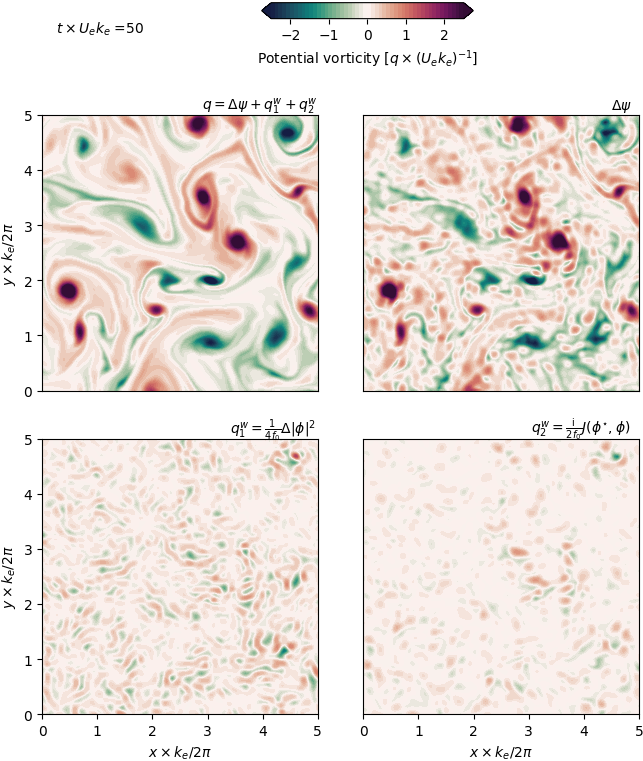
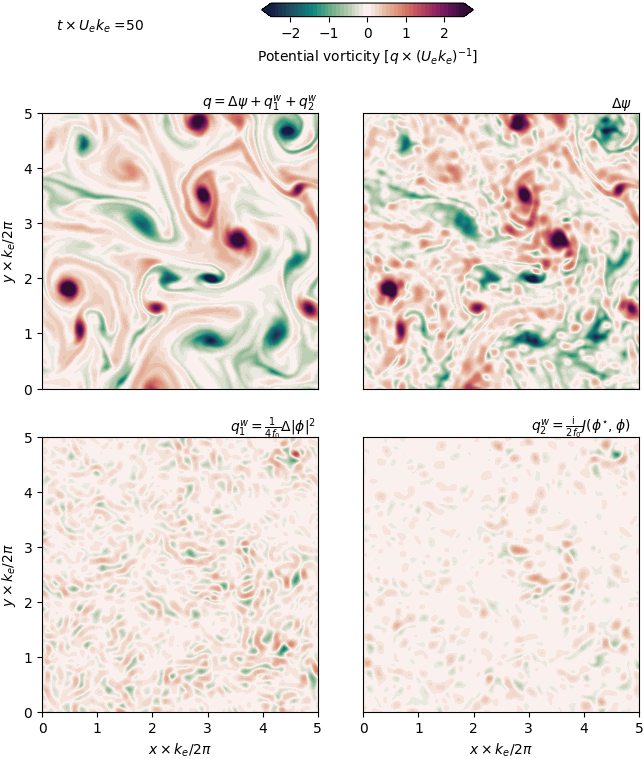
Updates poster

diff --git a/meetings/munk100/poster/poster.tex b/meetings/munk100/poster/poster.tex
@@ -182,7 +182,7 @@
         Above, $\psi$ is the streamfunction, $\lap \defn \p_x^2 + \p_y^2$,
         $\sJ(f,g)=f_x g_y - f_y g_x$, $^\star$ denotes complex conjugation,
         $\lambda = \tfrac{N_0}{f_0\, m}$, and the D-terms represent dissipation.
-        The wave kinetic energy density satisfies
+        The wave kinetic energy density, $\half |\phi|^2$, satisfies
 
         \beq
         \label{action_density}
@@ -227,7 +227,7 @@
                               (cf. poster's art). Contours represents relative vorticity, $\lap\psi$,
                               and vectors depict the wave flux, $\Ff_w$.
                               \textbf{Refraction attracts (expels)
-                              wave kinetic energy to anti-cyclones (from cyclones),
+                              wave kinetic energy density to anti-cyclones (from cyclones),
                               thereby generating wave potential energy at the expenses
                               of geostrophic kinetic energy ($\Gamma_r>0$)}.
                               }
@@ -305,7 +305,7 @@
                           \includegraphics[width=0.95\textwidth]{figs/hslash_dependence_turbulence.pdf}
                           \caption{(a) Energy change about initial condition.
                                   (b)  Correlation between
-                                  incoherent wave
+                                  wave
                                   kinetic energy and relative vorticity $\la\phi\lap\psi\ra$. Wave potential
                                   energy generation
                                   due to refraction, $\Gamma_a$ (c) and advection, $\Gamma_r$ (d).
@@ -320,7 +320,7 @@
                       \begin{column}{0.475\textwidth}
 
                         \begin{figure}
-                          \includegraphics[width=0.85\textwidth]{figs/pv-terms_turbulence.png}
+                          \includegraphics[width=0.8\textwidth]{figs/pv-terms_turbulence.png}
                           \caption{Snapshot of quasi-geostrophic potential vorticity
                                    of the decaying turbulence solution with $\hslash \approx 1$
                                    and $\alpha \approx 1$, at $t\times U_e k_e = 50$. The potential vorticity
@@ -345,9 +345,9 @@
                                     enhanced by straining.
                               \item Linear dispersion halts the conversion by moving
                                     waves out of the straining regions.
-                              \item The relative vorticity, $\lap\psi$, develops
-                                    positive skewness, implying a positive correlation
-                                    $\la\phi\lap\psi\ra$.
+                              \item The relative vorticity develops
+                                    positive skewness, implying a positive
+                                    wave-vorticity correlation $\la\phi\lap\psi\ra>0$.
                           \end{itemize}
 
                       \end{alertblock}
